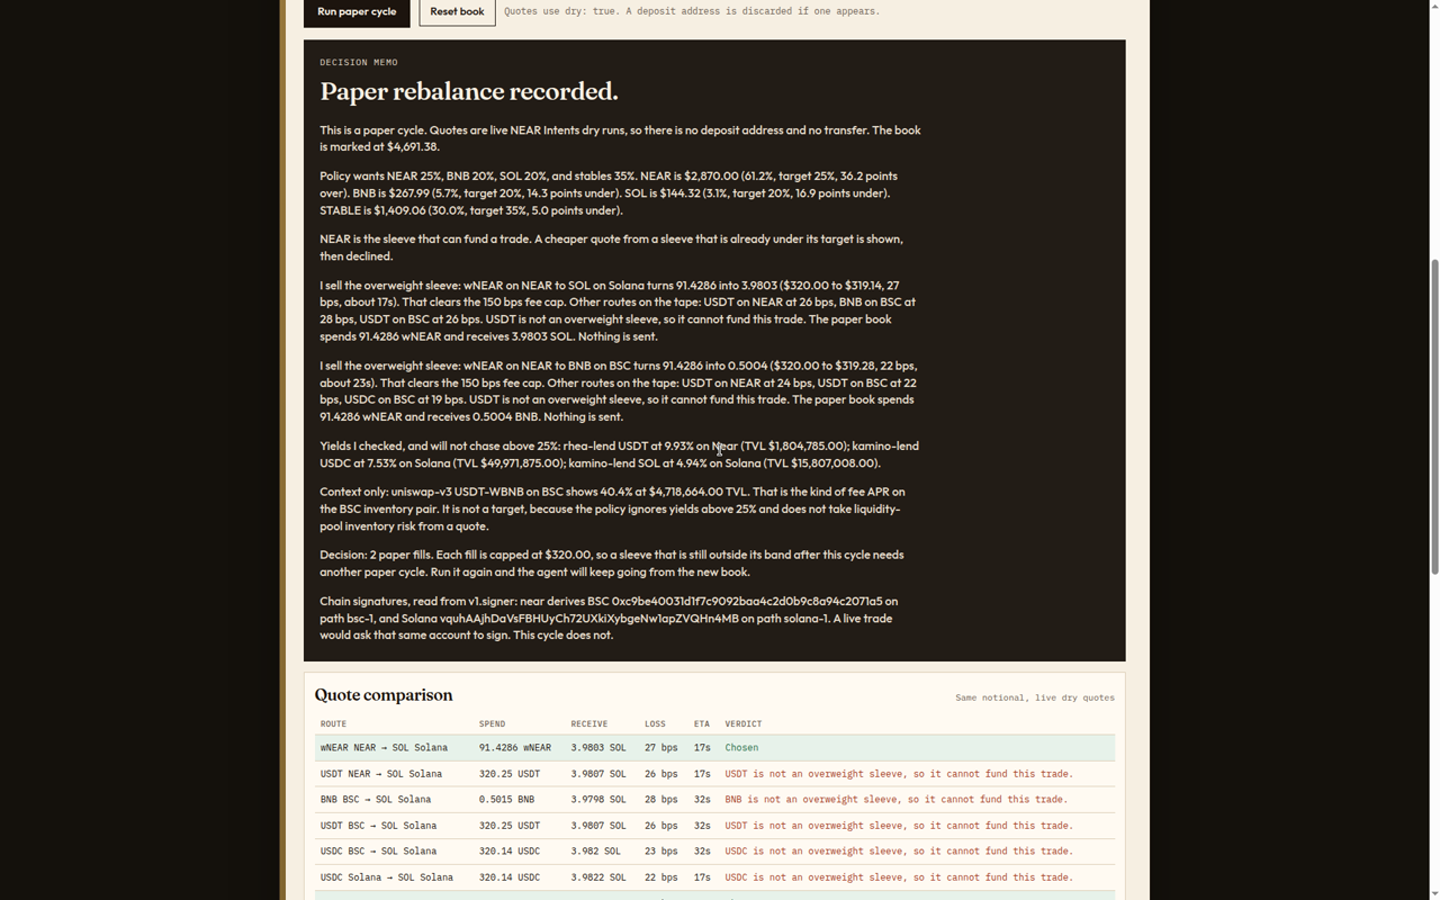
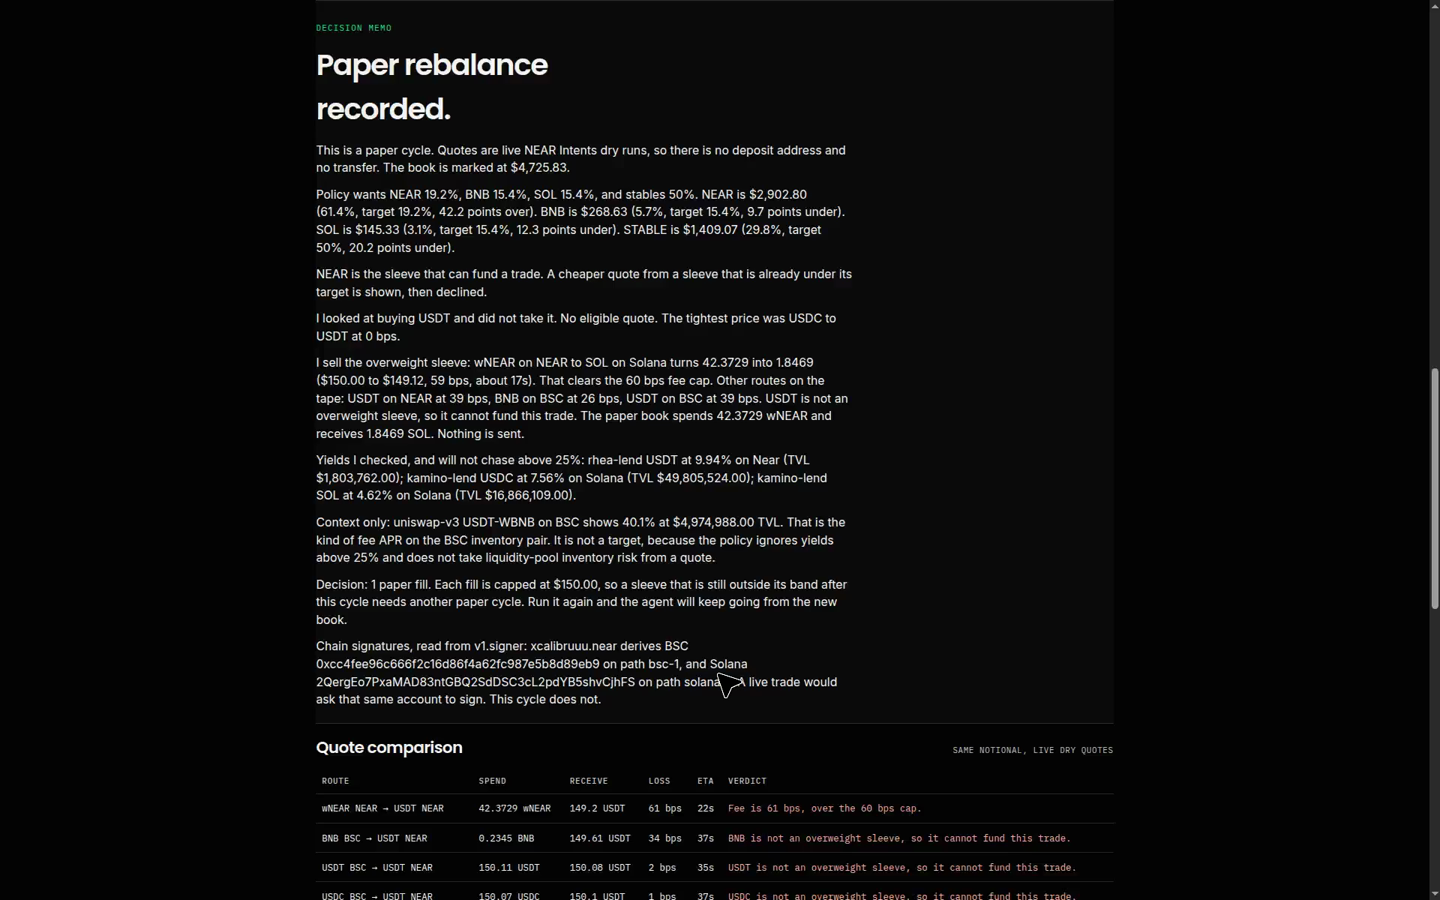
Refresh the desk screenshots, including a narrow layout.
The stills match the dark Oravo-inspired desk, the start steps, and a paper cycle.

diff --git a/README.md b/README.md
@@ -220,6 +220,10 @@ After a paper cycle, with the quote table and the memo:
 
 ![Paper cycle quote comparison](docs/screenshots/cycle.png)
 
+The same desk at a phone width. The three start steps stack:
+
+![Fund desk on a narrow screen](docs/screenshots/mobile.png)
+
 ## Tests and CI
 
 `npm test` covers base-unit conversion, EVM and Solana address derivation, the drifted-book plan, the cheaper-but-ineligible quote, the fee cap, the yield-horizon check, the dry-quote gate, and the length of the X drafts in `DEMO_POST.md`.
